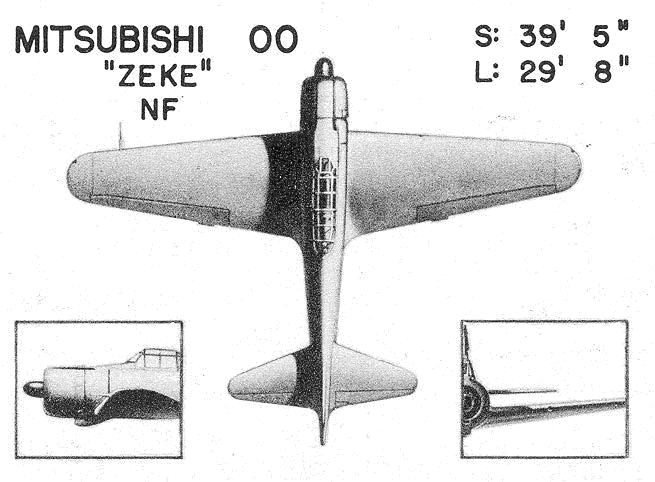
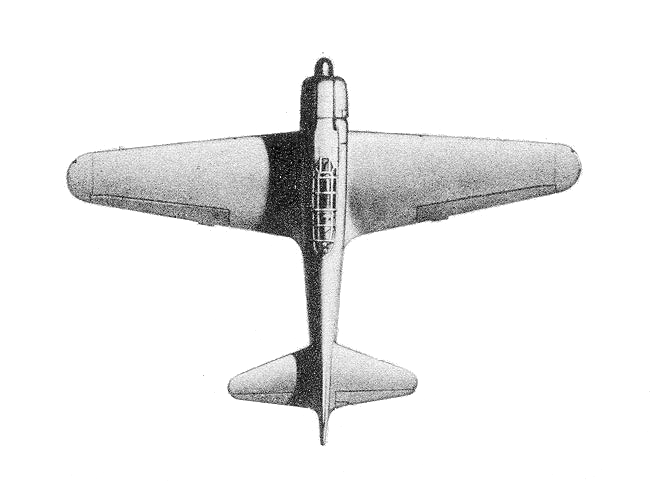
Replace Zeke optics plate with nose-up top-down silhouette.
Swap public + Vite-bundled zeke.png for Wade’s grayscale top-down fighter,
keep port/starboard flip, and let air plates use the full periscopeSilhouetteScale
curve (closer = larger) with air-specific CSS sizing.

diff --git a/packages/client/src/components/PeriscopeScope.tsx b/packages/client/src/components/PeriscopeScope.tsx
@@ -74,11 +74,20 @@ function silhouetteAlt(
   plate: string | undefined,
 ): string {
   if (plate === 'kagero') return 'Kagerō destroyer silhouette';
-  if (plate === 'zeke') return 'Mitsubishi Zeke fighter recognition plate';
+  if (plate === 'zeke') return 'Mitsubishi Zeke fighter silhouette';
   if (hullClass === 'Fleet Submarine') return 'Submarine silhouette';
   if (hullClass === 'Oiler') return 'Oiler silhouette';
   if (hullClass === 'Aircraft Carrier') return 'Aircraft carrier silhouette';
   return 'Destroyer silhouette';
+}
+
+/** Top-down airframe plates (nose-up) — distinct CSS sizing from side-profile hulls. */
+function isAirSilhouettePlate(
+  hullClass: HullClass | string | undefined,
+  plate: string | undefined,
+): boolean {
+  if (plate === 'zeke') return true;
+  return hullClass === 'Fighter' || hullClass === 'Bomber';
 }
 
 function contactDesignation(c: PeriscopeContact): string {
@@ -132,7 +141,6 @@ function PeriscopeScopeInner({
 
   const selected = effectiveId ? (sorted.find((c) => c.id === effectiveId) ?? null) : null;
 
-  const scale = selected ? Math.max(periscopeSilhouetteScale(selected.rangeNm, maxRangeNm), 0.55) : 1;
   const viewportLabel =
     variant === 'lookout' ? 'Lookout visual contact' : 'Periscope visual contact';
   const isFeather = selected?.kind === 'periscope';
@@ -140,11 +148,19 @@ function PeriscopeScopeInner({
   const plateClass = selected?.silhouetteClass;
   const plateKey = selected?.silhouettePlate;
   const plateSrc = silhouetteSrcForContact(plateClass, plateKey);
+  const airPlate = isAirSilhouettePlate(plateClass, plateKey);
+  // Same range falloff as hull plates (`periscopeSilhouetteScale`). Air top-downs
+  // use the full 0.25–1 curve; thin side-profiles keep a 0.55 readability floor.
+  const rawScale = selected
+    ? periscopeSilhouetteScale(selected.rangeNm, maxRangeNm)
+    : 1;
+  const scale = selected ? (airPlate ? rawScale : Math.max(rawScale, 0.55)) : 1;
   const plateSize =
     (plateKey ? SILHOUETTE_SIZE[plateKey] : undefined) ??
     SILHOUETTE_SIZE[plateClass ?? ''] ??
     SILHOUETTE_SIZE.Destroyer;
-  // Bow-right plates: flip for port AOB so the bow faces the observed aspect.
+  // Hull plates: bow-right, flip for port AOB. Air top-downs (nose-up): same
+  // flip helper mirrors left/right for port aspect (no separate heading rotate).
   const flipPlate =
     !isFeather &&
     selected != null &&
@@ -188,7 +204,7 @@ function PeriscopeScopeInner({
             ) : (
               <img
                 key={plateSrc}
-                className={`periscope-silhouette${flipPlate ? ' periscope-silhouette--flip' : ''}`}
+                className={`periscope-silhouette${airPlate ? ' periscope-silhouette--air' : ''}${flipPlate ? ' periscope-silhouette--flip' : ''}`}
                 src={plateSrc}
                 alt={silhouetteAlt(plateClass, plateKey)}
                 width={plateSize.width}

diff --git a/packages/server/src/verify.ts b/packages/server/src/verify.ts
@@ -57,6 +57,7 @@ import {
   rollSubmarineImplosion,
   periscopeSilhouetteUrl,
   periscopeSilhouetteFlipX,
+  periscopeSilhouetteScale,
   silhouettePlateForClassId,
   silhouetteUrlForClass,
   silhouetteUrlForOptics,
@@ -1029,6 +1030,23 @@ async function main() {
   check(
     'silhouette flip: missing course (feather) → no flip',
     periscopeSilhouetteFlipX(0, 45, undefined) === false,
+  );
+  // Optics plate size vs range — ships + air share this curve (closer = larger).
+  check(
+    'silhouette scale: contact range 0 → full size',
+    periscopeSilhouetteScale(0, 10) === 1,
+  );
+  check(
+    'silhouette scale: mid range → mid size',
+    periscopeSilhouetteScale(5, 10) === 0.63,
+  );
+  check(
+    'silhouette scale: at sensor max → 0.25',
+    periscopeSilhouetteScale(10, 10) === 0.25,
+  );
+  check(
+    'silhouette scale: beyond max clamps to 0.25',
+    periscopeSilhouetteScale(99, 10) === 0.25,
   );
   {
     const here = path.dirname(fileURLToPath(import.meta.url));

diff --git a/packages/client/src/styles/global.css b/packages/client/src/styles/global.css
@@ -3097,7 +3097,8 @@ label {
 .periscope-silhouette {
   /* Plain Vite-bundled PNG with alpha — no filters; transparent over sky/sea.
      Natural aspect from width/height attrs (DD 349×79, sub 350×55).
-     Default art is bow-right; --flip mirrors for port AOB (see periscopeSilhouetteFlipX). */
+     Default art is bow-right; --flip mirrors for port AOB (see periscopeSilhouetteFlipX).
+     Parent `.periscope-selected` applies --peri-scale from range (closer = larger). */
   display: block;
   flex: 0 0 auto;
   box-sizing: border-box;
@@ -3111,6 +3112,15 @@ label {
   border: none;
   user-select: none;
   -webkit-user-drag: none;
+}
+
+/* Nose-up top-down airframes (Zeke): size by height so range scale reads clearly
+   without forcing fighter wingspan to destroyer plate width. */
+.periscope-silhouette--air {
+  width: auto;
+  height: min(42vw, 12rem);
+  max-width: min(92vw, 18rem);
+  min-height: 0;
 }
 
 .periscope-silhouette--flip {

diff --git a/packages/shared/src/periscope.ts b/packages/shared/src/periscope.ts
@@ -241,7 +241,7 @@ export const OILER_SILHOUETTE_URL = '/silhouettes/oiler.png';
 export const CARRIER_SILHOUETTE_URL = '/silhouettes/carrier.png';
 /** Kagerō-class IJN destroyer plate (distinct from US Fletcher `destroyer.png`). */
 export const KAGERO_SILHOUETTE_URL = '/silhouettes/kagero.png';
-/** Mitsubishi A6M Zeke recognition plate (distinct from generic Fighter fallback). */
+/** Mitsubishi A6M Zeke nose-up top-down plate (distinct from generic Fighter fallback). */
 export const ZEKE_SILHOUETTE_URL = '/silhouettes/zeke.png';
 
 /**

diff --git a/packages/client/public/silhouettes/README.md b/packages/client/public/silhouettes/README.md
@@ -9,7 +9,7 @@ Side-profile / recognition plates for the Sensors visual optics tab (sub perisco
 | Fleet Submarine | `submarine.png` | Side-profile plate with alpha (halftone hull, bow right). Bundled via Vite at `packages/client/src/assets/silhouettes/submarine.png`. |
 | Oiler | `oiler.png` | Cimarron-class (T3-S2-A1) fleet oiler plate with alpha (halftone hull, bow right). Bundled via Vite at `packages/client/src/assets/silhouettes/oiler.png`. |
 | Aircraft Carrier | `carrier.png` | Shōkaku-class fleet carrier plate with alpha (grayscale hull, bow right; derived from port-side reference, flipped). Bundled via Vite at `packages/client/src/assets/silhouettes/carrier.png`. |
-| Fighter — Zeke plate | `zeke.png` | Mitsubishi A6M Zeke recognition plate (top-down + profile insets, grayscale midtones + alpha). Page white punched to transparency; **not** crushed to a black silhouette. Selected via `silhouettePlate: "zeke"` / `classId` containing `zeke` or `a6m`. Source: store `media/zeke-fighter-reference.jpg`. |
+| Fighter — Zeke plate | `zeke.png` | Mitsubishi A6M Zeke **nose-up top-down** grayscale plate (alpha; not a crushed black silhouette). Selected via `silhouettePlate: "zeke"` / `classId` containing `zeke` or `a6m`. Same port/starboard flip as hull plates; optics size uses `periscopeSilhouetteScale(rangeNm)` like ships. Source: store `media/zeke-topdown-silhouette.png`. |
 
 Keep public + Vite asset copies byte-identical when updating a plate. Preserve PNG transparency (`tRNS` / alpha) so the plate composites over the optics sky/sea. CRT grain/scanlines are CSS overlays above the `<img>` — do not bake them into the PNG.
 
